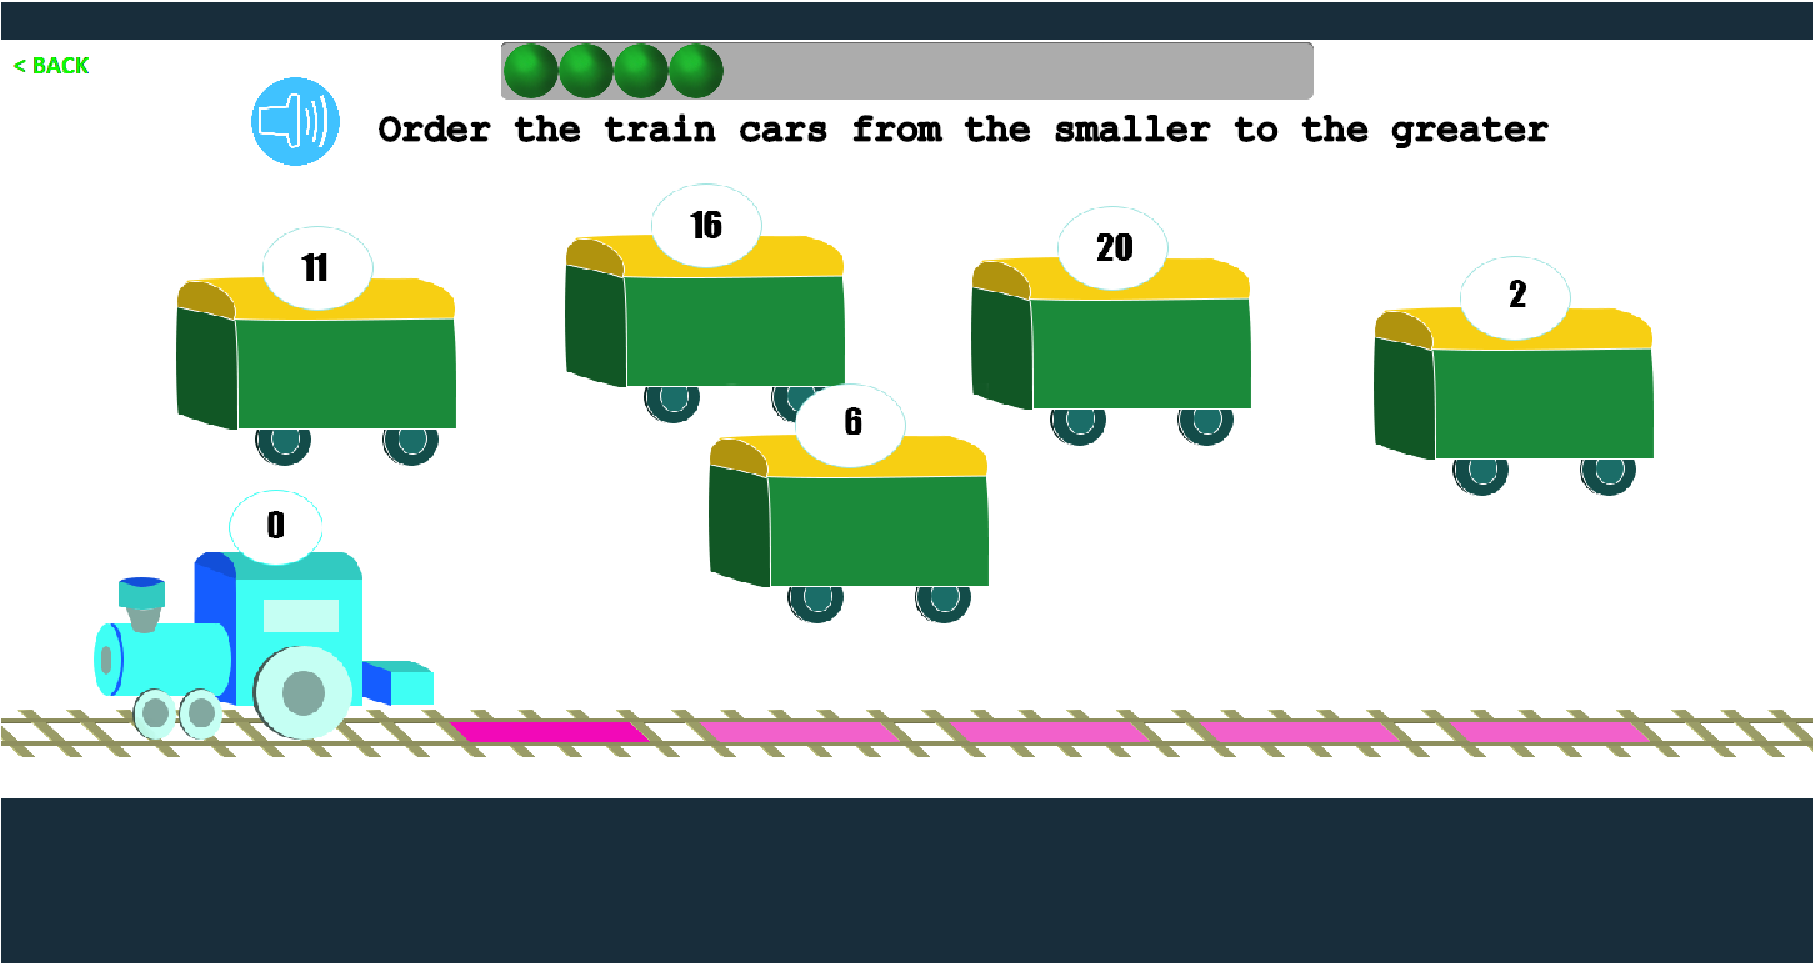
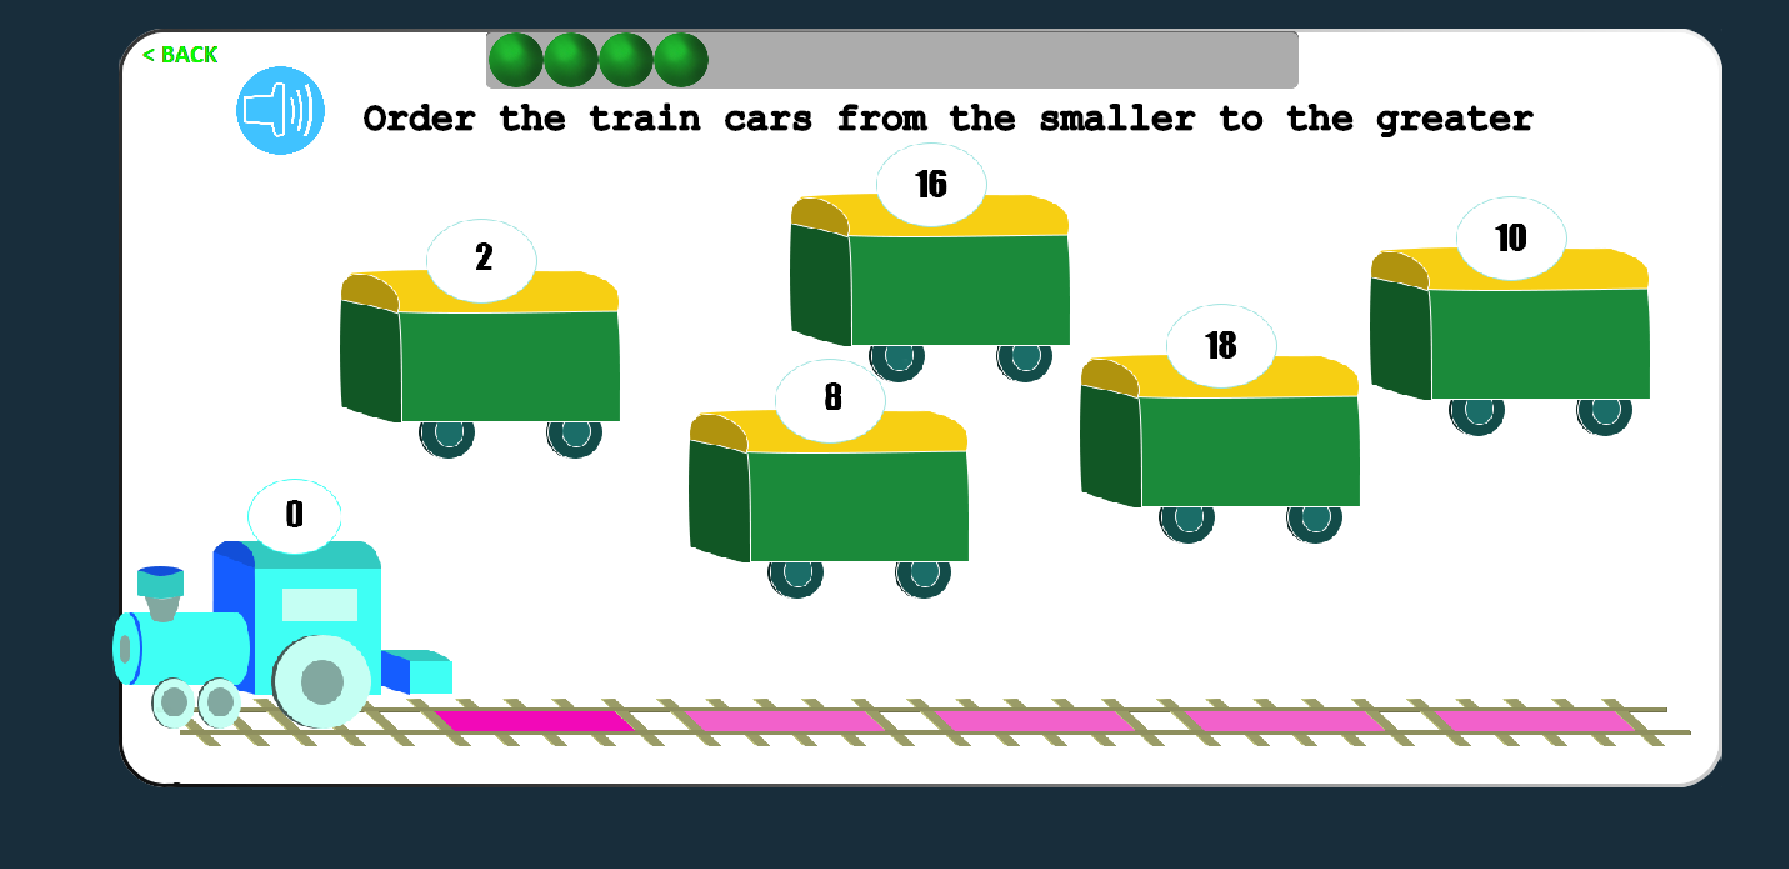
Hoan thanh can chinh bo cuc cua app #5

diff --git a/js/module1/Scene4.js b/js/module1/Scene4.js
@@ -6,7 +6,7 @@ class Scene4 extends Phaser.Scene {
 
 	create() {
 		//background
-		this.background = this.add.image(0, 30, "khungtrang");
+		this.background = this.add.image(106, 30, "khungtrang");
 		this.background.setOrigin(0, 0);
 		//header
 		this.add.text(300, 85, "Order the train cars from the smaller to the greater", {
@@ -16,7 +16,7 @@ class Scene4 extends Phaser.Scene {
 			strokeThickness: 3 
 		});
 		//back button
-		this.backButton = this.add.sprite(40, 50, "buttonback").setInteractive({cursor: 'pointer'});
+		this.backButton = this.add.sprite(155, 50, "buttonback").setInteractive({cursor: 'pointer'});
 		this.backButton.on('pointerover', () => this.backButton.setFrame(1));
 		this.backButton.on('pointerout', () => this.backButton.setFrame(0));
 		this.backButton.on('pointerdown', () => this.scene.start("screenMain"));
@@ -48,25 +48,24 @@ class Scene4 extends Phaser.Scene {
 		this.music = this.sound.add('sound');
 		this.speaker.on('pointerdown', () => this.music.play());
 		// track
-		this.track1 = this.add.sprite(50, config.height*3/4, "duong-ray").setFrame(4);
+		//this.track1 = this.add.sprite(50, config.height*3/4, "duong-ray").setFrame(4);
 		this.track2 = this.add.sprite(250, config.height*3/4, "duong-ray").setFrame(4);
 		this.track3 = this.add.sprite(450, config.height*3/4, "duong-ray").setFrame(4);
 		this.track4 = this.add.sprite(650, config.height*3/4, "duong-ray").setFrame(4);
 		this.track5 = this.add.sprite(850, config.height*3/4 , "duong-ray").setFrame(4);
 		this.track6 = this.add.sprite(1050, config.height*3/4, "duong-ray").setFrame(4);
 		this.track7 = this.add.sprite(1250, config.height*3/4, "duong-ray").setFrame(4);
-		this.track8 = this.add.sprite(1450, config.height*3/4, "duong-ray").setFrame(4);
-		//init
-		this.initial();
-		// track image
-		this.track1.setScale(0.4);
+		//this.track8 = this.add.sprite(1450, config.height*3/4, "duong-ray").setFrame(4);
+		//this.track1.setScale(0.4);
 		this.track2.setScale(0.4);
 		this.track3.setScale(0.4);
 		this.track4.setScale(0.4);
 		this.track5.setScale(0.4);
 		this.track6.setScale(0.4);
 		this.track7.setScale(0.4);
-		this.track8.setScale(0.4);
+		//this.track8.setScale(0.4);
+		//init
+		this.initial();
 		// drag object
 		this.input.on('pointerdown', this.startDrag, this);
 		
@@ -93,11 +92,11 @@ class Scene4 extends Phaser.Scene {
 				this.number4 = Phaser.Math.Between(13, 16);
 				this.number5 = Phaser.Math.Between(17, 20);
 				// train body
-				this.trainBody5 = this.add.image(Phaser.Math.Between(100, config.width-100), Phaser.Math.Between(200, config.height/2), "body-train" + this.number5).setInteractive({cursor:'pointer'});
-				this.trainBody4 = this.add.image(Phaser.Math.Between(100, config.width-100), Phaser.Math.Between(200, config.height/2), "body-train" + this.number4).setInteractive({cursor:'pointer'});
-				this.trainBody3 = this.add.image(Phaser.Math.Between(100, config.width-100), Phaser.Math.Between(200, config.height/2), "body-train" + this.number3).setInteractive({cursor:'pointer'});
-				this.trainBody2 = this.add.image(Phaser.Math.Between(100, config.width-100), Phaser.Math.Between(200, config.height/2), "body-train" + this.number2).setInteractive({cursor:'pointer'});
-				this.trainBody1 = this.add.image(Phaser.Math.Between(100, config.width-100), Phaser.Math.Between(200, config.height/2), "body-train" + this.number1).setInteractive({cursor:'pointer'});
+				this.trainBody5 = this.add.image(Phaser.Math.Between(200, config.width-200), Phaser.Math.Between(200, config.height/2), "body-train" + this.number5).setInteractive({cursor:'pointer'});
+				this.trainBody4 = this.add.image(Phaser.Math.Between(200, config.width-200), Phaser.Math.Between(200, config.height/2), "body-train" + this.number4).setInteractive({cursor:'pointer'});
+				this.trainBody3 = this.add.image(Phaser.Math.Between(200, config.width-200), Phaser.Math.Between(200, config.height/2), "body-train" + this.number3).setInteractive({cursor:'pointer'});
+				this.trainBody2 = this.add.image(Phaser.Math.Between(200, config.width-200), Phaser.Math.Between(200, config.height/2), "body-train" + this.number2).setInteractive({cursor:'pointer'});
+				this.trainBody1 = this.add.image(Phaser.Math.Between(200, config.width-200), Phaser.Math.Between(200, config.height/2), "body-train" + this.number1).setInteractive({cursor:'pointer'});
 				this.trainBody1.setScale(0.8);
 				this.trainBody2.setScale(0.8);
 				this.trainBody3.setScale(0.8);
@@ -110,7 +109,7 @@ class Scene4 extends Phaser.Scene {
 				this.trainBody4.status = false;
 				this.trainBody5.status = false;
 				//train head
-				this.trainHead0 = this.add.image(210, config.height*3/4 - 95, "head-train0");
+				this.trainHead0 = this.add.image(237, config.height*3/4 - 95, "head-train0");
 				this.trainHead0.setScale(0.8);
 				
 				this.end = false;
@@ -229,7 +228,7 @@ class Scene4 extends Phaser.Scene {
 					this.trainBody5.y = 495;
 					this.trainBody5.disableInteractive();
 					this.trainBody5.status = false;
-					this.explosion = this.add.sprite(120, config.height*3/4-150,"explosion").setScale(2.5);
+					this.explosion = this.add.sprite(138, config.height*3/4-150,"explosion").setScale(2.5);
 					this.explosion.play('explode');
 					this.time.addEvent({
 						delay: 1000,

diff --git a/js/module3/Scene6.js b/js/module3/Scene6.js
@@ -6,7 +6,7 @@ class Scene6 extends Phaser.Scene {
 
 	create() {
 		//background
-		this.background = this.add.image(0, 30, "khungtrang");
+		this.background = this.add.image(106, 30, "khungtrang");
 		this.background.setOrigin(0, 0);
 		//header
 		this.add.text(300, 85, "Put the train cars from the greatest to the smallest", {
@@ -16,7 +16,7 @@ class Scene6 extends Phaser.Scene {
 			strokeThickness: 3 
 		});
 		//back button
-		this.backButton = this.add.sprite(40, 50, "buttonback").setInteractive({cursor: 'pointer'});
+		this.backButton = this.add.sprite(155, 50, "buttonback").setInteractive({cursor: 'pointer'});
 		this.backButton.on('pointerover', () => this.backButton.setFrame(1));
 		this.backButton.on('pointerout', () => this.backButton.setFrame(0));
 		this.backButton.on('pointerdown', () => this.scene.start("screenMain"))
@@ -47,22 +47,22 @@ class Scene6 extends Phaser.Scene {
 		this.music = this.sound.add('sound');
 		this.speaker.on('pointerdown', () => this.music.play());
 		// track
-		this.track1 = this.add.sprite(50, config.height*3/4, "duong-ray").setFrame(4);
+		//this.track1 = this.add.sprite(50, config.height*3/4, "duong-ray").setFrame(4);
 		this.track2 = this.add.sprite(250, config.height*3/4, "duong-ray").setFrame(4);
 		this.track3 = this.add.sprite(450, config.height*3/4, "duong-ray").setFrame(4);
 		this.track4 = this.add.sprite(650, config.height*3/4, "duong-ray").setFrame(4);
 		this.track5 = this.add.sprite(850, config.height*3/4 , "duong-ray").setFrame(4);
 		this.track6 = this.add.sprite(1050, config.height*3/4, "duong-ray").setFrame(4);
 		this.track7 = this.add.sprite(1250, config.height*3/4, "duong-ray").setFrame(4);
-		this.track8 = this.add.sprite(1450, config.height*3/4, "duong-ray").setFrame(4);
-		this.track1.setScale(0.4);
+		//this.track8 = this.add.sprite(1450, config.height*3/4, "duong-ray").setFrame(4);
+		//this.track1.setScale(0.4);
 		this.track2.setScale(0.4);
 		this.track3.setScale(0.4);
 		this.track4.setScale(0.4);
 		this.track5.setScale(0.4);
 		this.track6.setScale(0.4);
 		this.track7.setScale(0.4);
-		this.track8.setScale(0.4);
+		//this.track8.setScale(0.4);
 		//init
 		this.initial();
 		//drag object
@@ -90,11 +90,11 @@ class Scene6 extends Phaser.Scene {
 				this.number4 = Phaser.Math.Between(4, 7);
 				this.number5 = Phaser.Math.Between(1, 3);
 				// train body
-				this.trainBody5 = this.add.image(Phaser.Math.Between(100, config.width-100), Phaser.Math.Between(200, config.height/2), "body-train" + this.number5).setInteractive({cursor:'pointer'});
-				this.trainBody4 = this.add.image(Phaser.Math.Between(100, config.width-100), Phaser.Math.Between(200, config.height/2), "body-train" + this.number4).setInteractive({cursor:'pointer'});
-				this.trainBody3 = this.add.image(Phaser.Math.Between(100, config.width-100), Phaser.Math.Between(200, config.height/2), "body-train" + this.number3).setInteractive({cursor:'pointer'});
-				this.trainBody2 = this.add.image(Phaser.Math.Between(100, config.width-100), Phaser.Math.Between(200, config.height/2), "body-train" + this.number2).setInteractive({cursor:'pointer'});
-				this.trainBody1 = this.add.image(Phaser.Math.Between(100, config.width-100), Phaser.Math.Between(200, config.height/2), "body-train" + this.number1).setInteractive({cursor:'pointer'});
+				this.trainBody5 = this.add.image(Phaser.Math.Between(200, config.width-200), Phaser.Math.Between(200, config.height/2), "body-train" + this.number5).setInteractive({cursor:'pointer'});
+				this.trainBody4 = this.add.image(Phaser.Math.Between(200, config.width-200), Phaser.Math.Between(200, config.height/2), "body-train" + this.number4).setInteractive({cursor:'pointer'});
+				this.trainBody3 = this.add.image(Phaser.Math.Between(200, config.width-200), Phaser.Math.Between(200, config.height/2), "body-train" + this.number3).setInteractive({cursor:'pointer'});
+				this.trainBody2 = this.add.image(Phaser.Math.Between(200, config.width-200), Phaser.Math.Between(200, config.height/2), "body-train" + this.number2).setInteractive({cursor:'pointer'});
+				this.trainBody1 = this.add.image(Phaser.Math.Between(200, config.width-200), Phaser.Math.Between(200, config.height/2), "body-train" + this.number1).setInteractive({cursor:'pointer'});
 				this.trainBody1.setScale(0.8);
 				this.trainBody2.setScale(0.8);
 				this.trainBody3.setScale(0.8);
@@ -107,7 +107,7 @@ class Scene6 extends Phaser.Scene {
 				this.trainBody4.status = false;
 				this.trainBody5.status = false;
 				// train head
-				this.trainHead20 = this.add.image(210, config.height*3/4 - 95, "head-train20");
+				this.trainHead20 = this.add.image(237, config.height*3/4 - 95, "head-train20");
 				this.trainHead20.setScale(0.8);
 				
 				this.end = false;

diff --git a/js/module2/Scene2.js b/js/module2/Scene2.js
@@ -7,7 +7,7 @@ class Scene2 extends Phaser.Scene {
 
 	create() {
 		//background
-		this.background = this.add.image(0, 30, "khungtrang");
+		this.background = this.add.image(106, 30, "khungtrang");
 		this.background.setOrigin(0, 0);
 		// header
 		this.add.text(420, 85, "Place the ball on the number line", {
@@ -17,7 +17,7 @@ class Scene2 extends Phaser.Scene {
 			strokeThickness: 3 
 		});
 		//back button
-		this.backButton = this.add.sprite(40, 50, "buttonback").setInteractive({cursor: 'pointer'});
+		this.backButton = this.add.sprite(155, 50, "buttonback").setInteractive({cursor: 'pointer'});
 		this.backButton.on('pointerover', () => this.backButton.setFrame(1));
 		this.backButton.on('pointerout', () => this.backButton.setFrame(0));
 		this.backButton.on('pointerdown', () => this.scene.start("screenMain"));

diff --git a/js/module2/Scene1.js b/js/module2/Scene1.js
@@ -15,7 +15,7 @@ class Scene1 extends Phaser.Scene {
 		this.startButton.on('pointerdown', () => this.scene.start("screenPlay1"));
 
 		//backButton button
-		this.backButton = this.add.sprite(40, 50, "buttonback").setInteractive({cursor: 'pointer'});
+		this.backButton = this.add.sprite(155, 50, "buttonback").setInteractive({cursor: 'pointer'});
 		this.backButton.on('pointerover', () => this.backButton.setFrame(1));
 		this.backButton.on('pointerout', () => this.backButton.setFrame(0));
 		this.backButton.on('pointerdown', () => this.scene.start("screenMain"));

diff --git a/js/module1/Scene3.js b/js/module1/Scene3.js
@@ -15,7 +15,7 @@ class Scene3 extends Phaser.Scene {
 		this.startButton.on('pointerdown', () => this.scene.start("screenPlay2"));
 
 		//back button
-		this.backButton = this.add.sprite(40, 50, "buttonback").setInteractive({cursor: 'pointer'});
+		this.backButton = this.add.sprite(155, 50, "buttonback").setInteractive({cursor: 'pointer'});
 		this.backButton.on('pointerover', () => this.backButton.setFrame(1));
 		this.backButton.on('pointerout', () => this.backButton.setFrame(0));
 		this.backButton.on('pointerdown', () => this.scene.start("screenMain"));

diff --git a/js/module3/Scene5.js b/js/module3/Scene5.js
@@ -15,7 +15,7 @@ class Scene5 extends Phaser.Scene {
 		this.startButton.on('pointerdown', () => this.scene.start("screenPlay3"));
 
 		//back button
-		this.backButton = this.add.sprite(40, 20, "buttonback").setInteractive({cursor:'pointer'});
+		this.backButton = this.add.sprite(155, 50, "buttonback").setInteractive({cursor:'pointer'});
 		this.backButton.on('pointerover', () => this.backButton.setFrame(1));
 		this.backButton.on('pointerout', () => this.backButton.setFrame(0));
 		this.backButton.on('pointerdown', () => this.scene.start("screenMain"));

diff --git a/js/Scene0.js b/js/Scene0.js
@@ -7,7 +7,7 @@ class Scene0 extends Phaser.Scene {
 	preload() {
 		// general
 		this.load.image("khungmain", "../assets/images/khungmain.png");
-		this.load.image("khungtrang", "../assets/images/khungtrang.png");
+		this.load.image("khungtrang", "../assets/images/khungtrang2.png");
 		this.load.spritesheet("khung1","../assets/images/khung1.png", {
 			frameWidth: 343,
 			frameHeight: 382

diff --git a/js/index.html b/js/index.html
@@ -15,7 +15,6 @@
 	<script type="text/javascript" src="../js/module2/Scene1.js"></script>
 	<script type="text/javascript" src="Scene0.js"></script>
 	<script type="text/javascript" src="app.js"></script>
-
 </head>
 <body>
 </body>
